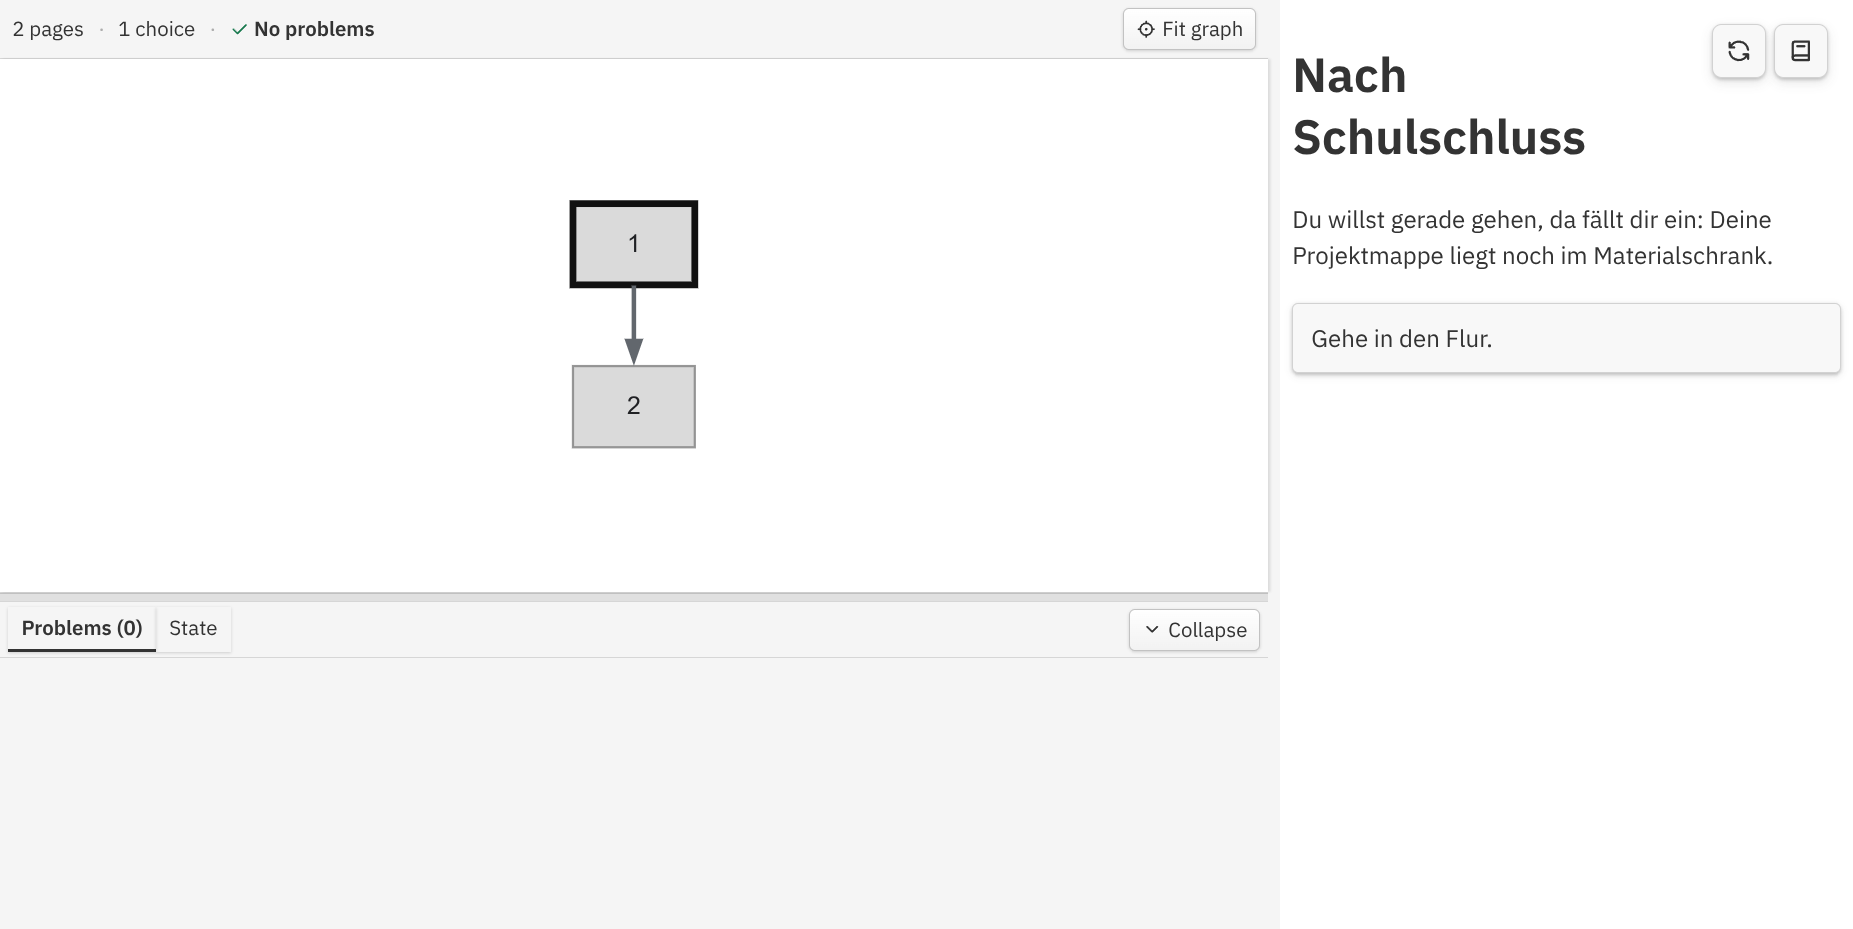
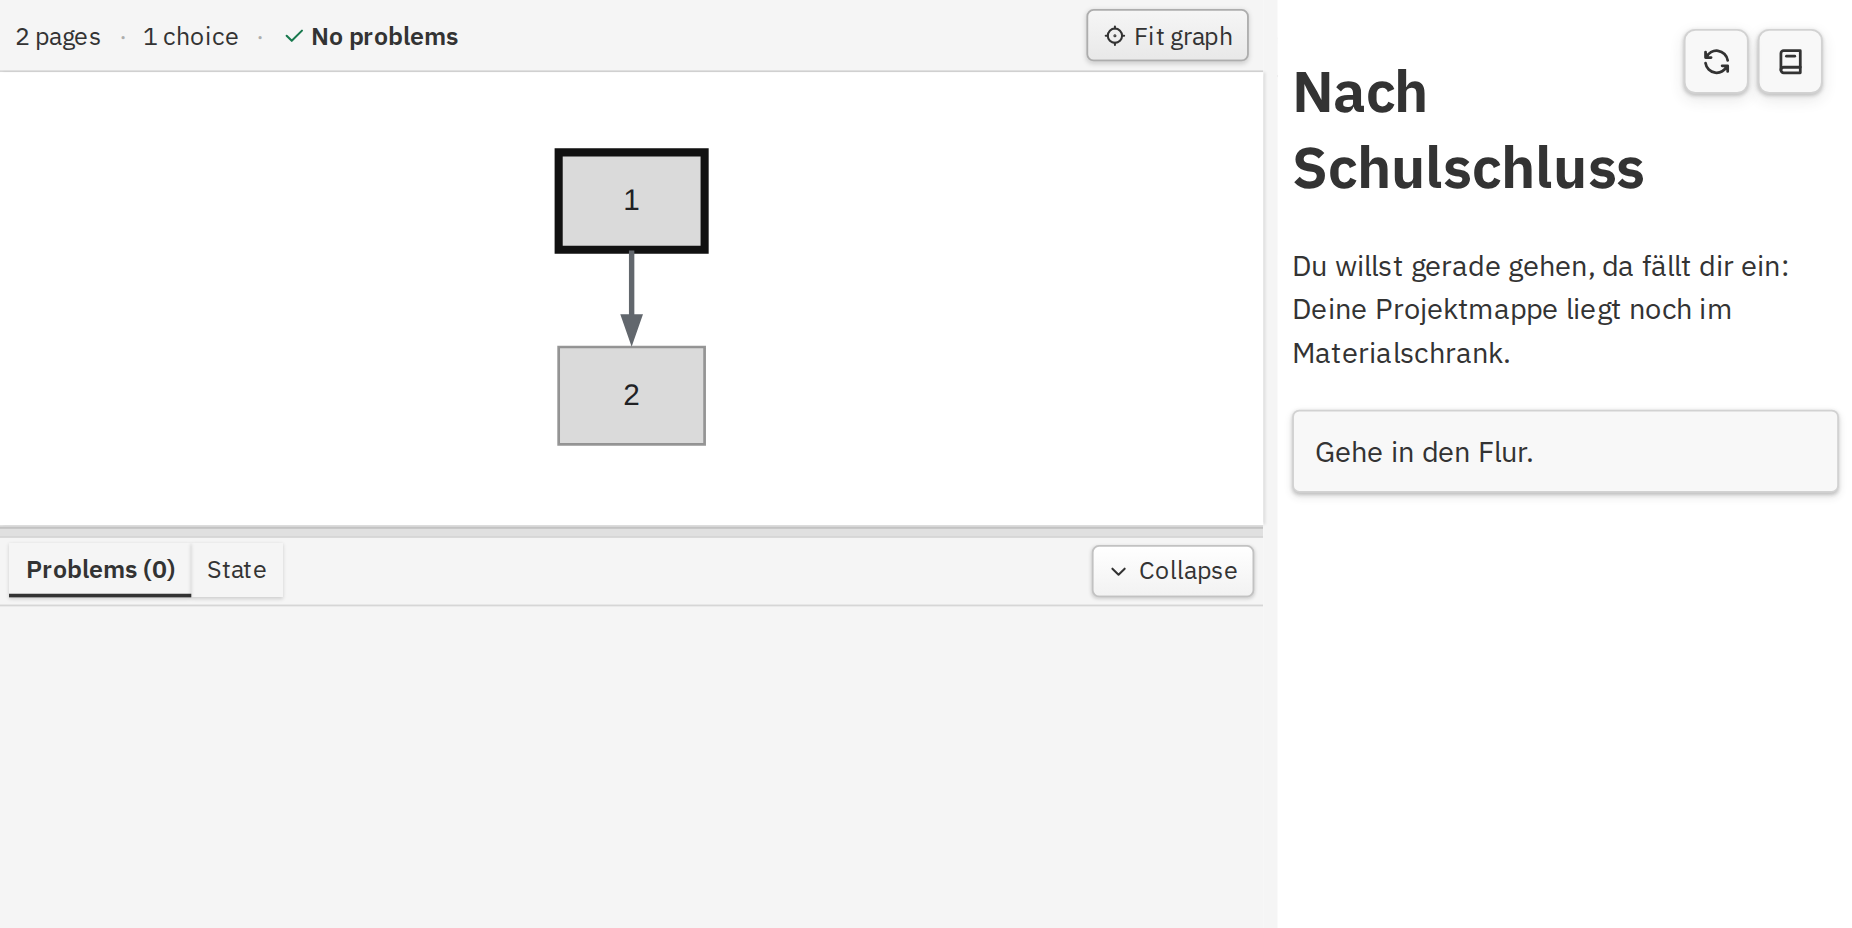
yay

diff --git a/tutorial-screenshots/server.js b/tutorial-screenshots/server.js
@@ -242,6 +242,12 @@ function parseRecipe(text) {
                 type: 'wait-for-file',
                 path: safeRelativePath(match[1].trim()),
             });
+        } else if ((match = line.match(/^wait-for-file-newer:\s*(.+?)\s*<-\s*(.+)$/))) {
+            recipe.actions.push({
+                type: 'wait-for-file-newer',
+                target: safeRelativePath(match[1].trim()),
+                source: safeRelativePath(match[2].trim()),
+            });
         } else if ((match = line.match(/^close-tab:\s*(.+)$/))) {
             recipe.actions.push({
                 type: 'close-tab',
@@ -994,6 +1000,67 @@ async function waitForWorkspaceFile(relativePath) {
     );
 }
 
+async function waitForWorkspaceFileNewer(targetRelativePath, sourceRelativePath) {
+    const root = path.resolve(
+        USER_ROOT,
+        fsTagForEmail(SCREENSHOT_EMAIL),
+        'workspace',
+    );
+
+    const resolveWorkspacePath = relativePath => {
+        const target = path.resolve(root, safeRelativePath(relativePath));
+
+        if (target !== root && !target.startsWith(`${root}${path.sep}`)) {
+            throw new Error(`Workspace path escaped its root: ${relativePath}`);
+        }
+
+        return target;
+    };
+
+    const sourcePath = resolveWorkspacePath(sourceRelativePath);
+    const targetPath = resolveWorkspacePath(targetRelativePath);
+
+    const sourceStat = await fs.stat(sourcePath, { bigint: true });
+
+    if (!sourceStat.isFile()) {
+        throw new Error(`Source is not a file: ${sourceRelativePath}`);
+    }
+
+    const sourceMtime = sourceStat.mtimeNs;
+    const deadline = Date.now() + 60_000;
+
+    let stableSignature = null;
+    let stableSince = 0;
+
+    while (Date.now() < deadline) {
+        try {
+            const stat = await fs.stat(targetPath, { bigint: true });
+
+            if (stat.isFile() && stat.mtimeNs > sourceMtime) {
+                const signature = `${stat.mtimeNs}:${stat.size}`;
+
+                if (signature !== stableSignature) {
+                    stableSignature = signature;
+                    stableSince = Date.now();
+                } else if (Date.now() - stableSince >= 250) {
+                    return;
+                }
+            } else {
+                stableSignature = null;
+            }
+        } catch (error) {
+            if (error?.code !== 'ENOENT') throw error;
+            stableSignature = null;
+        }
+
+        await new Promise(resolve => setTimeout(resolve, 100));
+    }
+
+    throw new Error(
+        `Timed out waiting for ${targetRelativePath} to become newer than ${sourceRelativePath}`,
+    );
+}
+
 async function closeTab(label) {
     const tabs = workspace.locator('.tabs-container .tab');
     const count = await tabs.count();
@@ -1079,6 +1146,7 @@ async function executeAction(action, targetTab) {
     case 'go-live': return goLive();
     case 'write-file': return writeWorkspaceFile(action.path, action.contents);
     case 'wait-for-file': return waitForWorkspaceFile(action.path);
+    case 'wait-for-file-newer': return waitForWorkspaceFileNewer(action.target, action.source);
     case 'close-tab': return closeTab(action.label);
     case 'preview-reload': return previewReload(false);
     case 'preview-reset': return previewReload(true);

diff --git a/src/content/bif/bif.md b/src/content/bif/bif.md
@@ -150,6 +150,15 @@ Speichere die Datei, indem du <kbd>Strg</kbd><kbd>S</kbd> drückst. Die Vorschau
 
 <div style='clear: both;'></div>
 
+<!-- tutorial-screenshot
+write-file: pages-starter/2.md <- previous-code
+wait-for-file-newer: bif/.story-tools/analysis.json <- bif/pages-starter/2.md
+preview-reload
+click: Fit graph
+sleep: 1
+tab: preview
+-->
+
 <img class='full full-shadow scroll-right' src='unreachable-page.webp' alt='Eine zweite Seite ist im Story-Graph nicht mit der Startseite verbunden und als unerreichbar markiert.'>
 
 Damit besteht die Geschichte bereits aus zwei Seiten, allerdings gibt es noch keine Verbindung von der ersten zur zweiten Seite – dafür brauchen wir eine Entscheidung.
@@ -173,6 +182,15 @@ Du willst gerade gehen, da fällt dir ein: Deine Projektmappe liegt noch im Mate
 ```
 
 Speichere die Datei und probiere die Geschichte im Browser aus:
+
+<!-- tutorial-screenshot
+write-file: pages-starter/1.md <- previous-code
+wait-for-file-newer: bif/.story-tools/analysis.json <- bif/pages-starter/1.md
+preview-reload
+click: Fit graph
+sleep: 1
+tab: preview
+-->
 
 <img class='full full-shadow scroll-right' src='two-pages.webp' alt='Zwei Seiten sind im Story-Graph durch eine Entscheidung miteinander verbunden.'>
 
